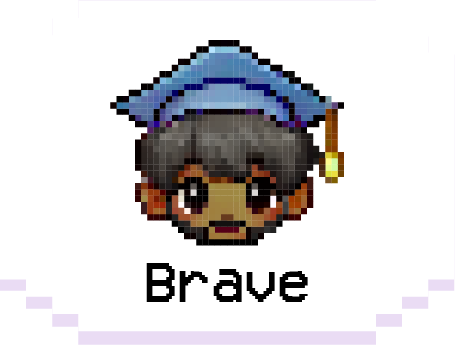
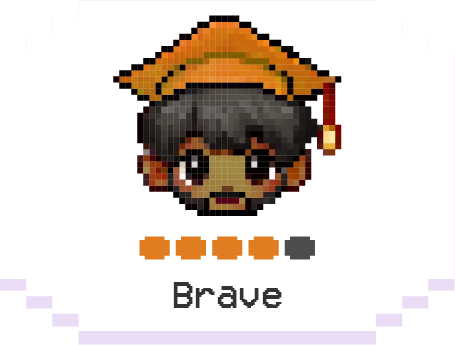
Changed character selection asset and built onto Item + Character class

Changed region(s): [[0.2462, 0.029, 0.7692, 0.8986]]

diff --git a/core/src/main/java/com/badlogic/drop/Character.java b/core/src/main/java/com/badlogic/drop/Character.java
@@ -1,19 +1,42 @@
 package com.badlogic.drop;
 
+import com.badlogic.gdx.Gdx;
 import com.badlogic.gdx.scenes.scene2d.ui.Image;
 
 public class Character {
 
     private final Image characterImage;
     private final String name;
-    private int health = 100;
-    private int happiness = 100;
-    private int hunger = 100;
+
+    // 0 through to 4
+    private int characterNumber;
+    // e.g relaxed, brave
+    private String characterType;
+
+    private int health;
+    private int sleep;
+    private int happiness;
+    private int fullness;
+    private int stress;
+
+    private int healthChange;
+    private int sleepChange;
+    private int happinessChange;
+    private int fullnessChange;
+    private int stressChange;
 
     // Constructor
-    public Character(String charName, Image charImage) {
+    public Character(String charName, Image charImage, int characterNumber, String characterType) {
         this.name = charName;
         this.characterImage = charImage;
+
+        this.characterNumber = characterNumber;
+        this.characterType = characterType;
+
+        // initialize character stats based on character type selected
+        setUpCharacter();
+
+        Gdx.app.log("NAME", "health: " + health + "\nsleep: " + sleep + "\nhappiness: " + happiness + "\nfullness: " + fullness + "\nstress: " + stress);
     }
 
     public Image getImage() {
@@ -53,14 +76,88 @@ public class Character {
 
     // Getter and Setter for hunger
     public int getHunger() {
-        return hunger;
+        return fullness;
     }
 
     public void setHunger(int hunger) {
         if (hunger >= 0 && hunger <= 100) {
-            this.hunger = hunger;
+            this.fullness = hunger;
         } else {
-            System.out.println("Hunger value must be between 0 and 100.");
+            System.out.println("fullness value must be between 0 and 100.");
+        }
+    }
+
+    public int getSleep() {
+        return sleep;
+    }
+
+    public void setSleep(int sleep) {
+        if (sleep >= 0 && sleep <= 100) {
+            this.sleep = sleep;
+        } else {
+            System.out.println("sleep value must be between 0 and 100.");
+        }
+    }
+
+    public int getStress() {
+        return stress;
+    }
+
+    public void setStress(int stress) {
+        if (stress >= 0 && stress <= 100) {
+            this.stress = stress;
+        } else {
+            System.out.println("stress value must be between 0 and 100.");
+        }
+    }
+
+    // initialize character stats based on character type selected
+    private void setUpCharacter(){
+        switch (characterNumber) {
+
+            // case 0 = relaxed
+            case 0:
+
+                setHealth(100);
+                setSleep(100);
+                setHappiness(100);
+                setHunger(100);
+                break;
+
+            // case 1 = quirky
+            case 1:
+                setHealth(90);
+                setSleep(80);
+                setHappiness(100);
+                setHunger(100);
+                break;
+
+            // case 2 = hasty
+            case 2:
+                setHealth(70);
+                setSleep(70);
+                setHappiness(80);
+                setHunger(80);
+                break;
+
+
+                // case 3 == brave
+            case 3:
+                setHealth(60);
+                setSleep(60);
+                setHappiness(70);
+                setHunger(70);
+                break;
+
+            // case 4 == serious
+            case 4:
+                setHealth(50);
+                setSleep(50);
+                setHappiness(50);
+                setHunger(50);
+                break;
+
+            default: throw new IllegalArgumentException("Invalid character index: " + characterNumber);
         }
     }
 }

diff --git a/core/src/main/java/com/badlogic/drop/NameInput.java b/core/src/main/java/com/badlogic/drop/NameInput.java
@@ -93,7 +93,7 @@ public class NameInput extends ScreenAdapter {
 
                 // starting game
 
-                Character newCharacter = new Character(nameInputField.getText(), characterImage);
+                Character newCharacter = new Character(nameInputField.getText(), characterImage, previousScreen.getCharacterIndex(), previousScreen.getCharacterType(previousScreen.getCharacterIndex()));
                 GameSession newGame = new GameSession(newCharacter);
 
                 Gdx.app.log("NAME", nameInputField.getText());
@@ -155,9 +155,7 @@ public class NameInput extends ScreenAdapter {
         TextField.TextFieldStyle textFieldStyle = new TextField.TextFieldStyle();
         textFieldStyle.font = textFont; // Use the scaled font
 
-
         textFieldStyle.fontColor = com.badlogic.gdx.graphics.Color.BLACK; // Text color
-        Gdx.app.log("weirdwtf", "herehHERE");
 
         // Input box background
         textFieldStyle.background = new TextureRegionDrawable(new TextureRegion(textures.get("inputBox")));
@@ -195,7 +193,9 @@ public class NameInput extends ScreenAdapter {
         textures.put("inputBegin", new Texture(Gdx.files.internal("NameInput/begin-btn.png")));
         textures.put("inputBox", new Texture(Gdx.files.internal("NameInput/name-input-box.png"))); // Replace with your image path
         textures.put("cursor", new Texture(Gdx.files.internal("NameInput/cursor.png")));
-        textures.put("character", new Texture(Gdx.files.internal(previousScreen.getCharacter())));
+
+        String charImagePath = "characters/" + previousScreen.getCharacterType(previousScreen.getCharacterIndex()) + "-head.png";
+        textures.put("character", new Texture(Gdx.files.internal(charImagePath)));
     }
 
     private void createBackButton() {
@@ -207,8 +207,8 @@ public class NameInput extends ScreenAdapter {
                 mainGame.setScreen(previousScreen);
 
                 // Ensure the previous screen resets its input processor
-                if (previousScreen instanceof characterSelection) {
-                    ((characterSelection) previousScreen).setStage(); // Explicit cast is unnecessary due to instanceof check
+                if (previousScreen != null) {
+                    (previousScreen).setStage(); // Explicit cast is unnecessary due to instanceof check
                 }
             }
         });

diff --git a/core/src/main/java/com/badlogic/drop/characterSelection.java b/core/src/main/java/com/badlogic/drop/characterSelection.java
@@ -80,13 +80,13 @@ public class characterSelection extends ScreenAdapter {
         setupSpriteChooseState();
     }
 
-    private String getCharacterType(int index) {
+    public String getCharacterType(int index) {
         switch (index) {
             case 0: return "relaxed";
-            case 1: return "hasty";
-            case 2: return "quirky";
-            case 3: return "serious";
-            case 4: return "brave";
+            case 1: return "quirky";
+            case 2: return "hasty";
+            case 3: return "brave";
+            case 4: return "serious";
             default: throw new IllegalArgumentException("Invalid character index: " + index);
         }
     }
@@ -226,8 +226,8 @@ public class characterSelection extends ScreenAdapter {
         updateCharacterInTable();
     }
 
-    public String getCharacter(){
-        return "characters/" + getCharacterType(curCharacterIndex) + "-head.png";
+    public int getCharacterIndex(){
+        return curCharacterIndex;
     }
 
 

diff --git a/core/src/main/java/com/badlogic/drop/Item.java b/core/src/main/java/com/badlogic/drop/Item.java
@@ -1,0 +1,20 @@
+package com.badlogic.drop;
+
+import com.badlogic.gdx.scenes.scene2d.ui.ImageButton;
+
+public class Item {
+
+    ImageButton image;
+
+    //
+    public int id;
+
+    // a number corresponding to which stat bar the item will boost
+    public int type;
+
+
+    public String name;
+    public String description;
+    public int price;
+
+}

diff --git a/core/src/main/java/com/badlogic/drop/GameSession.java b/core/src/main/java/com/badlogic/drop/GameSession.java
@@ -7,9 +7,20 @@ public class GameSession {
     Character character;
     Date date;
 
+    Item[] inventory;
+
+
+
     public GameSession(Character charc){
         character = charc;
         date = new Date();
 
+        // maximum 6 items in inventory?
+        inventory = new Item[6];
+
     }
+
+
+
+
 }
